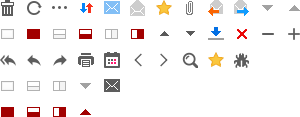
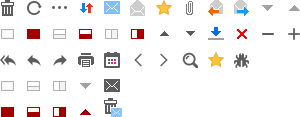
안읽은 메일 일괄삭제 2
- 테마별 아이콘 추가

Changed region(s): [[0.33, 0.8205, 0.42, 1.0]]

diff --git a/src/main/webapp/css/ezPortal/skin_blue.css b/src/main/webapp/css/ezPortal/skin_blue.css
@@ -271,6 +271,7 @@ nav .navUL li.on{color:#003497;}
 .mainbody > div > h1 > span > span{color:#003497 !important;}
 
 .icon16{background-image:url(../../images/ezNewPortal/skin/blue/icon_16.png) !important;}
+.icon16_unreadMail_del {background-position: -103px -97px !important;}
 
 .portlet_tabnew01_top p span{border-color:#7E9AD1; color:#003497; background-image:url(../../images/ezNewPortal/skin/blue/tabnew_bg.png); background-color:#fff;}
 .portlet_tabnew01_top p span.tabon{border-color:#7E9AD1; color:#003497; background-color:#EEF4FE; background-image:url(../../images/ezNewPortal/skin/blue/tabnew_bg.png);}

diff --git a/src/main/webapp/css/ezPortal/skin_red.css b/src/main/webapp/css/ezPortal/skin_red.css
@@ -277,6 +277,7 @@ nav .navUL li.on{color:#A20000;}
 .mainbody > div > h1 > span > span{color:#A20000 !important;}
 
 .icon16{background-image:url(../../images/ezNewPortal/skin/red/icon_16.png) !important;}
+.icon16_unreadMail_del {background-position: -103px -97px !important;}
 
 .portlet_tabnew01_top p span{border-color:#D0ABAB; color:#A20000; background-image:url(../../images/ezNewPortal/skin/red/tabnew_bg.png); background-color:#fff;}
 .portlet_tabnew01_top p span.tabon{border-color:#A20000; color:#A20000; background-color:#FBF6F6; background-image:url(../../images/ezNewPortal/skin/red/tabnew_bg.png);}